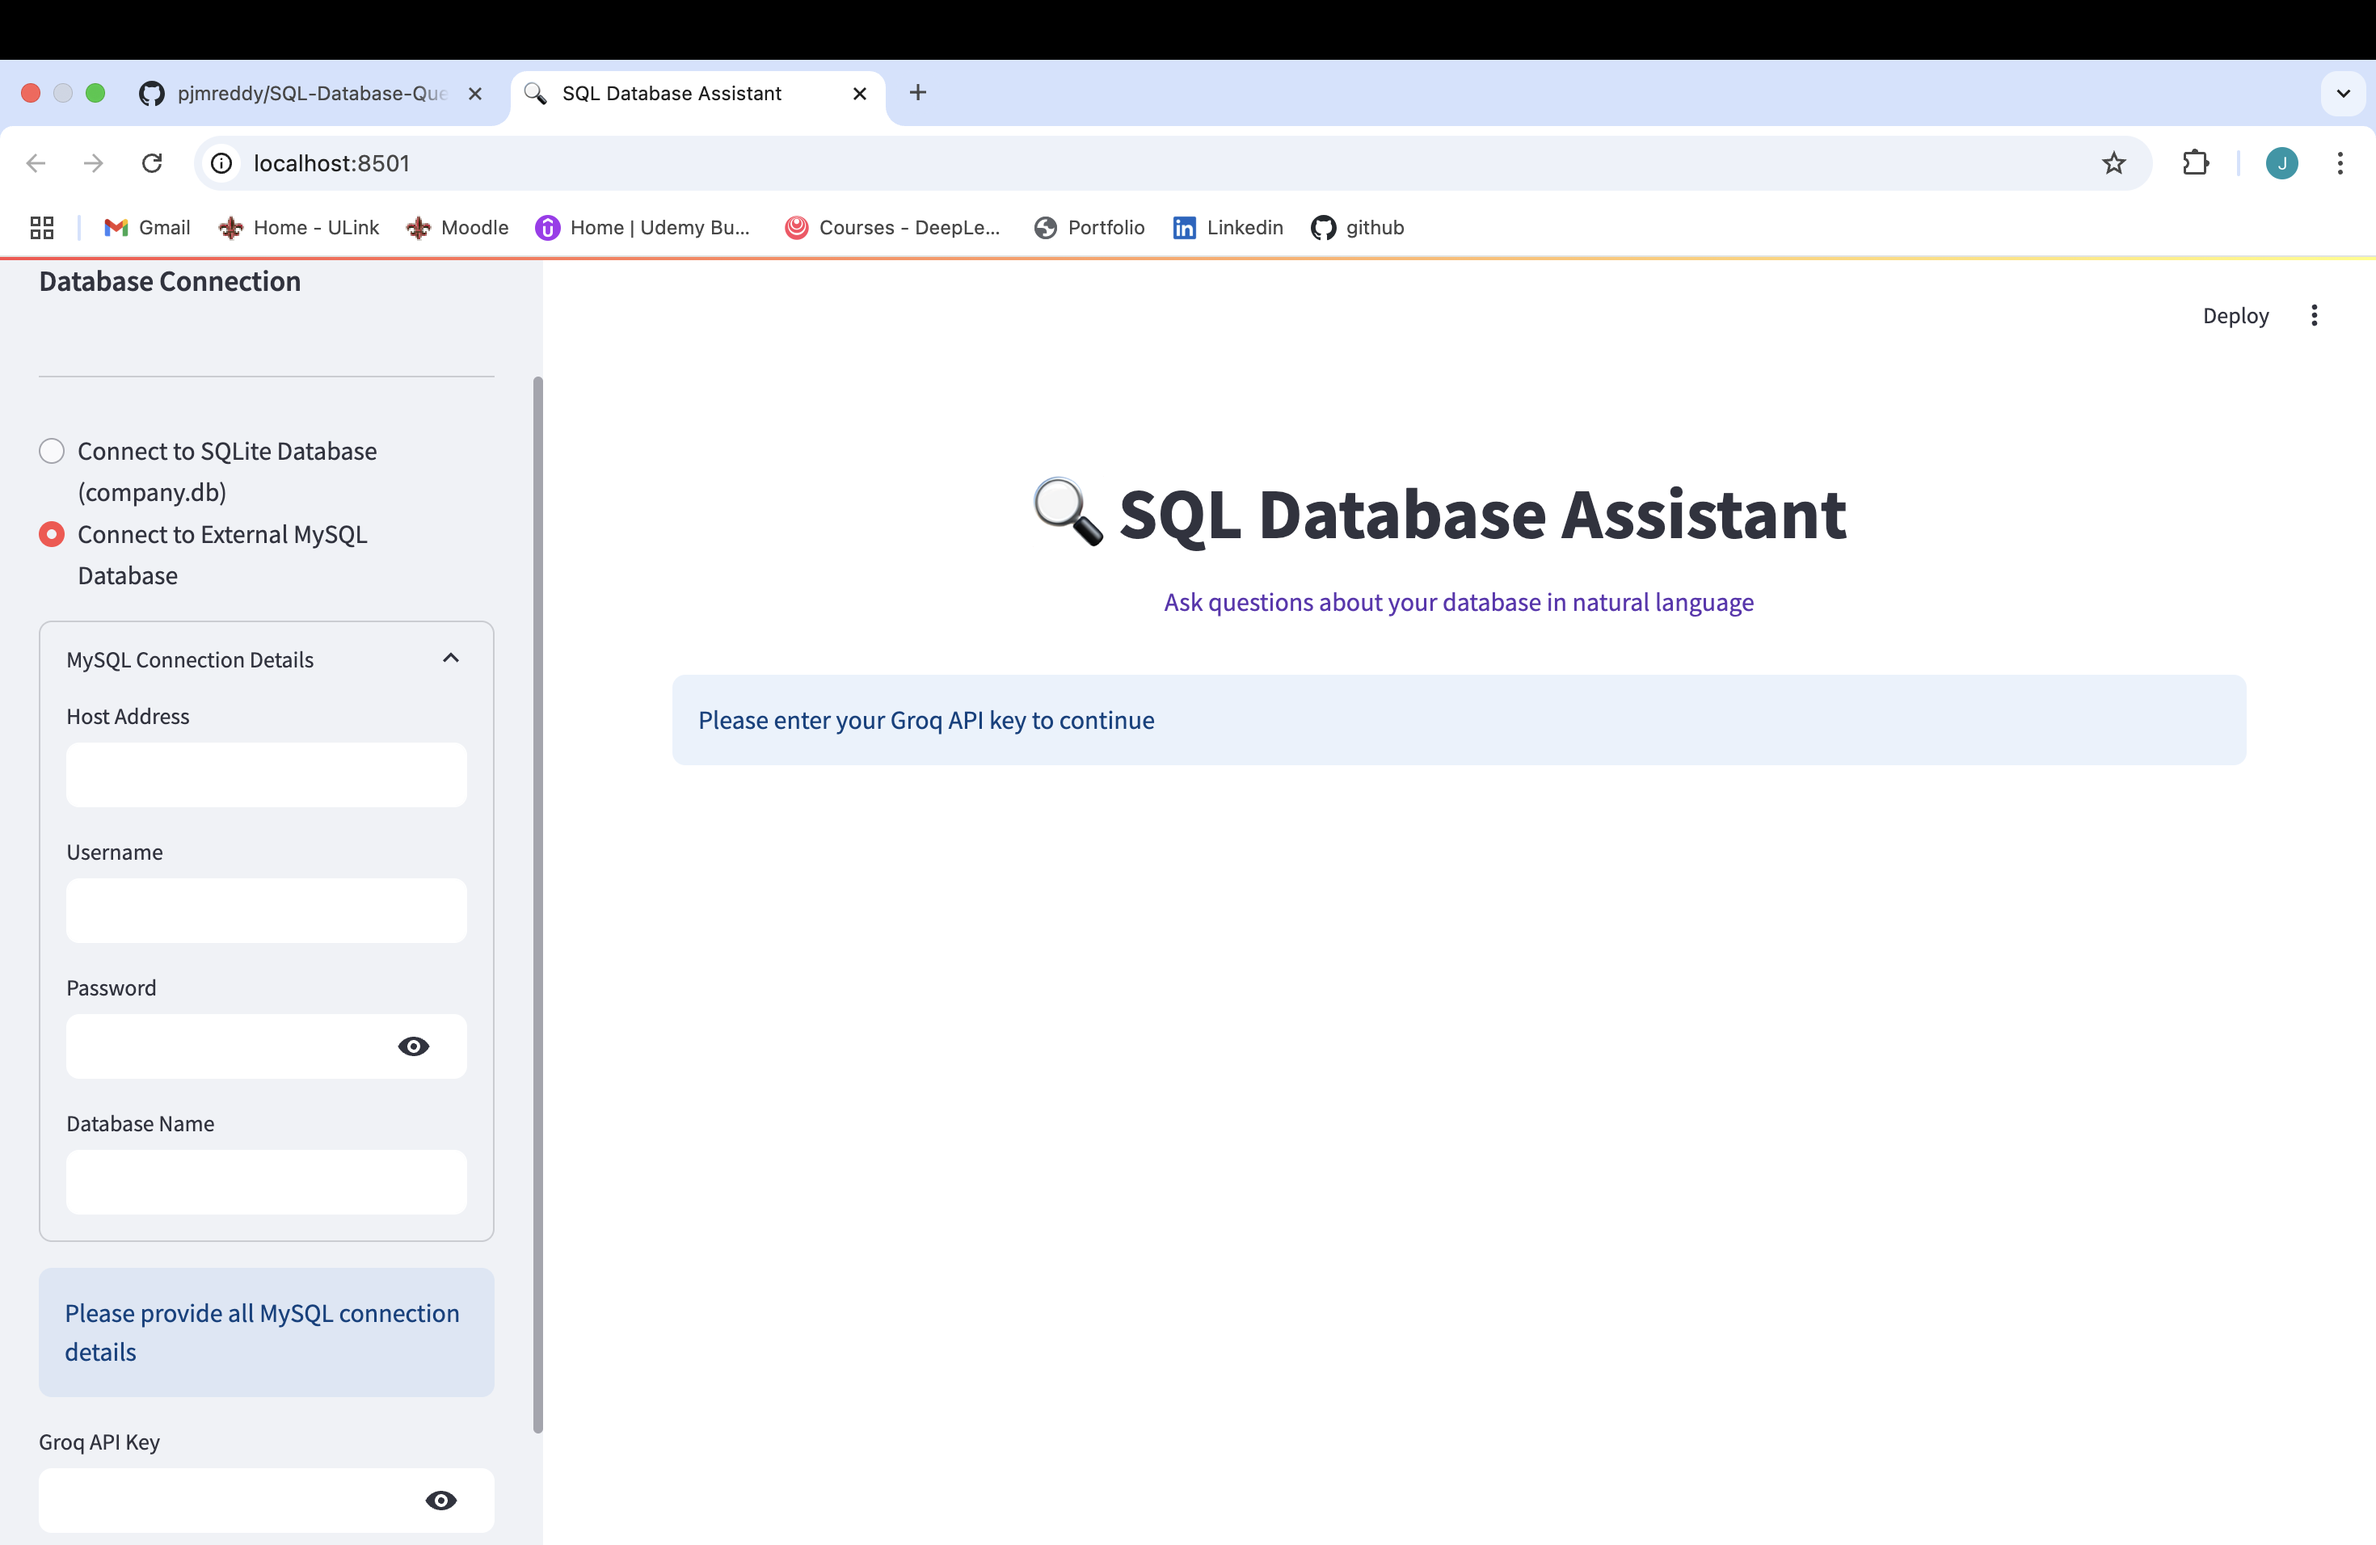
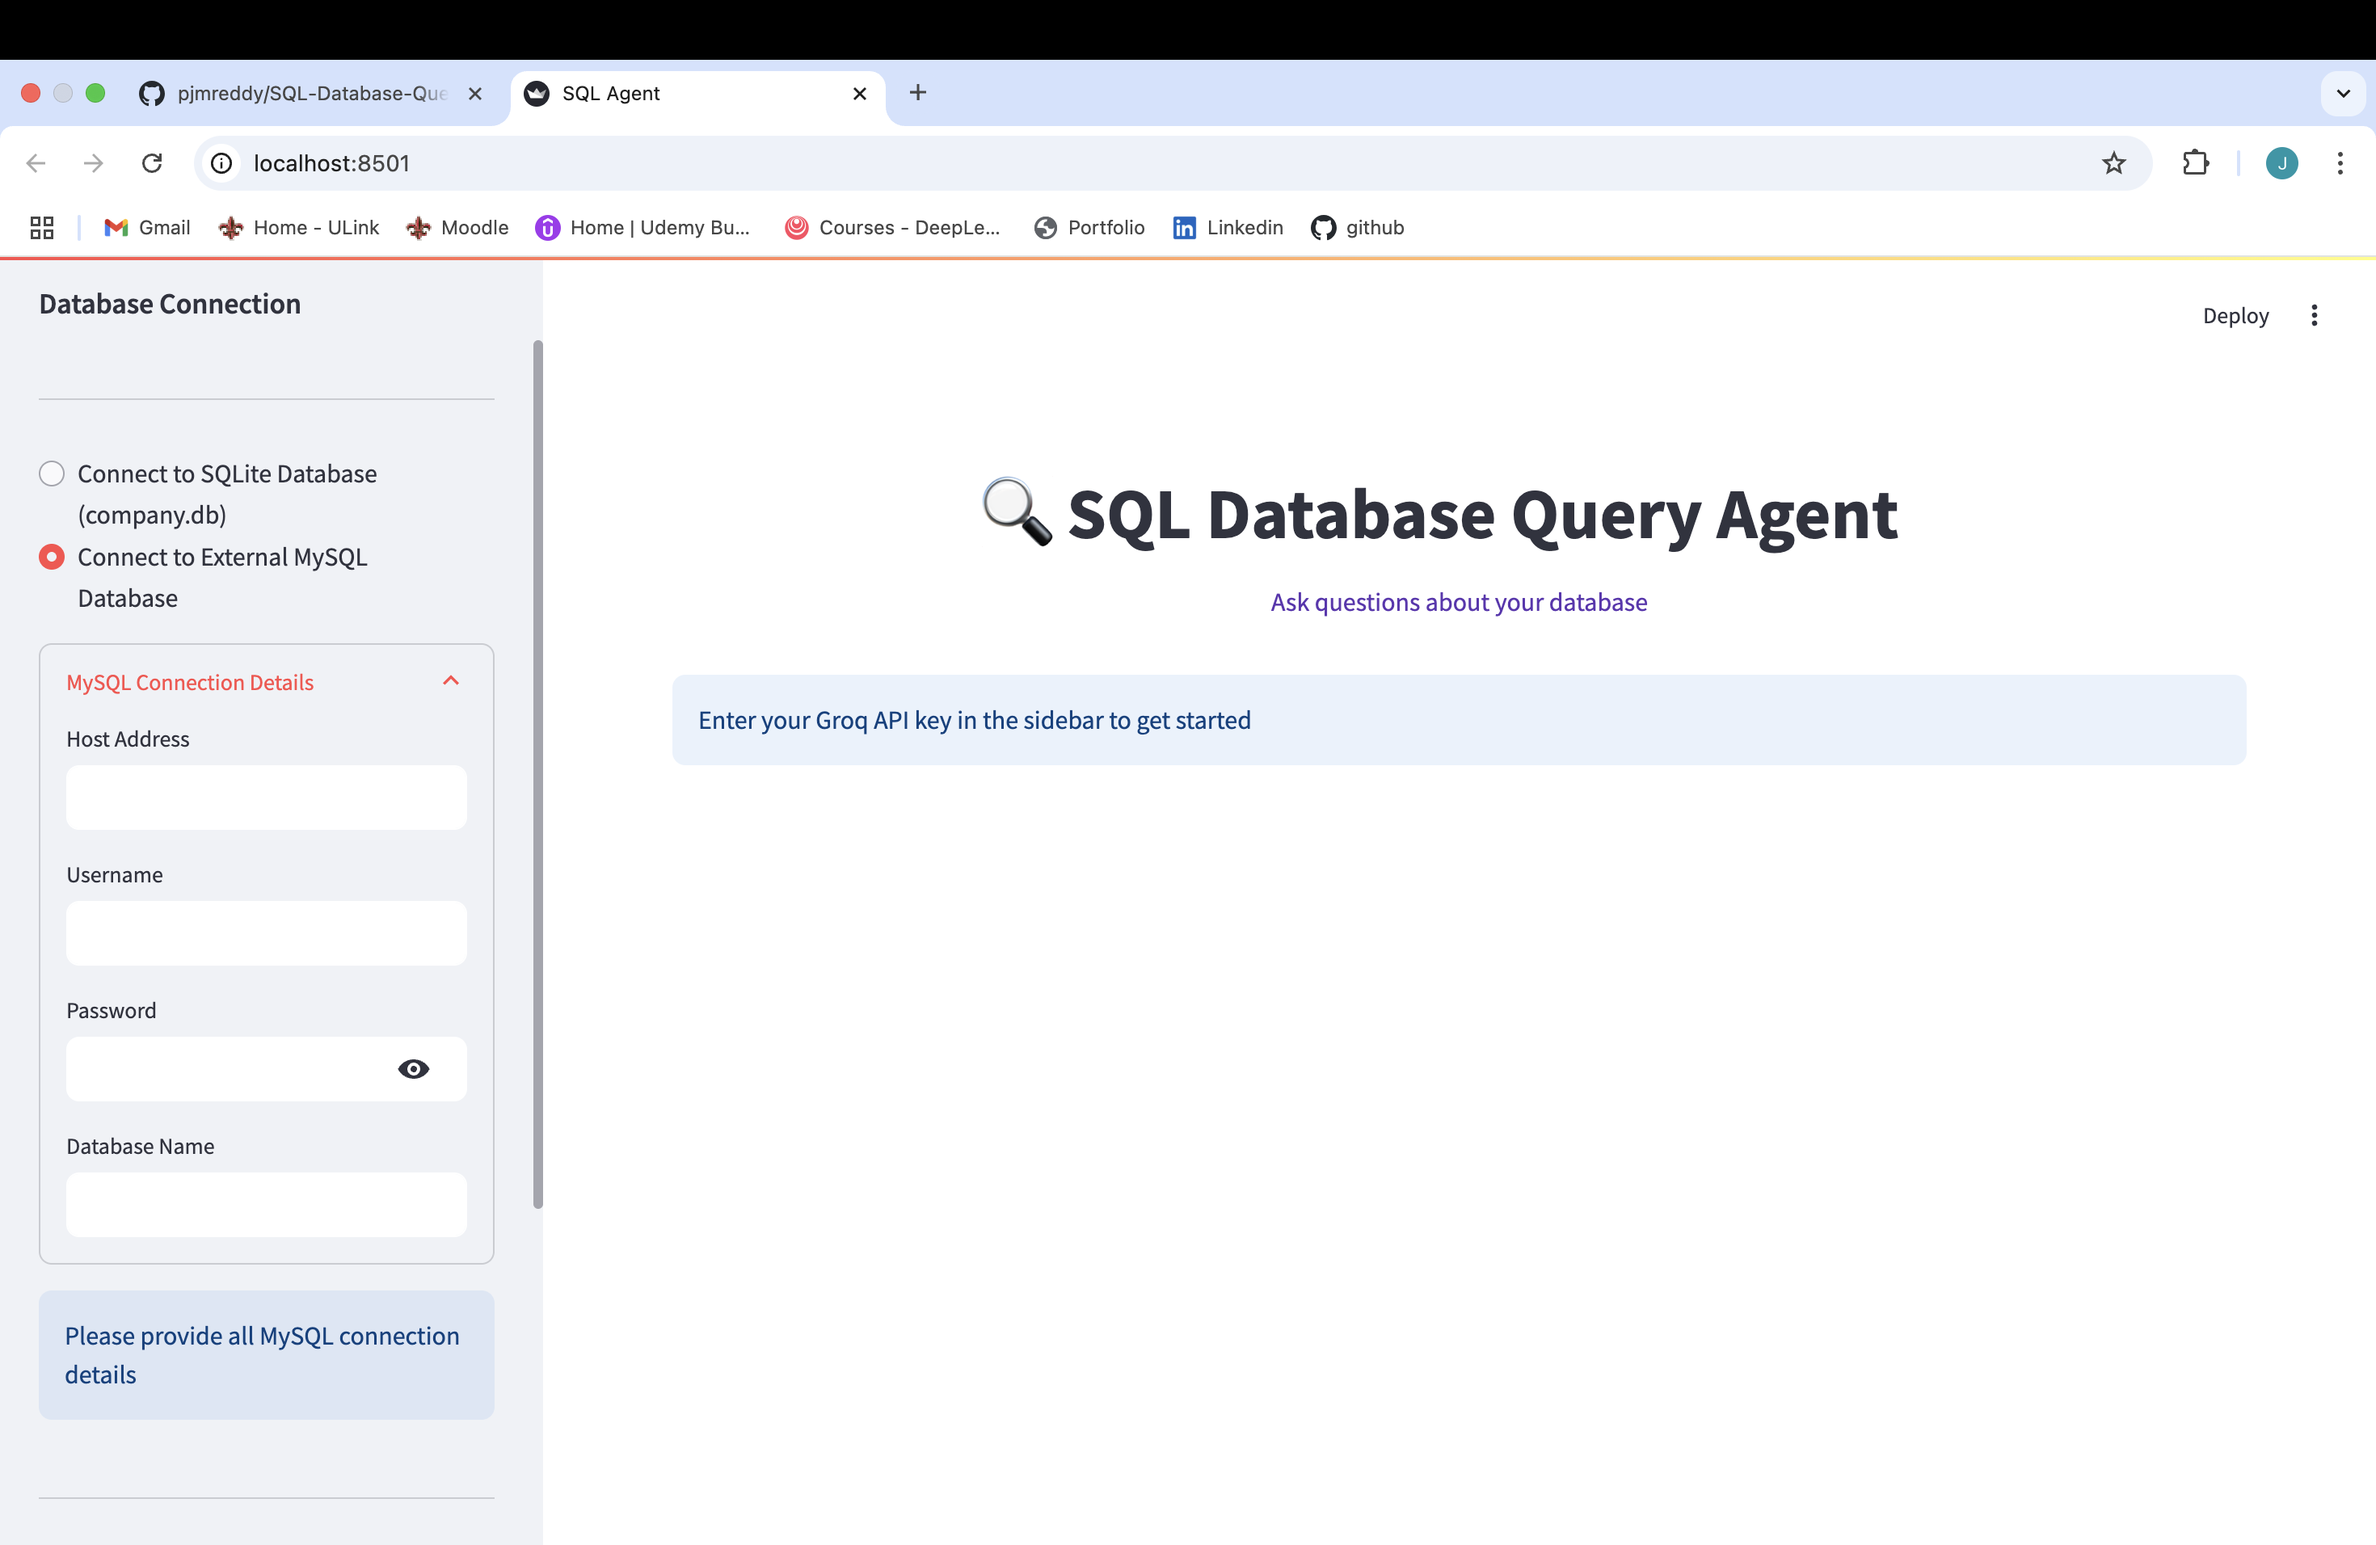
Final

diff --git a/app.py b/app.py
@@ -1,6 +1,6 @@
 import streamlit as st
 from pathlib import Path
-from langchain.agents import create_sql_agent
+from langchain_community.agent_toolkits.sql.base import create_sql_agent
 from langchain.agents.agent_types import AgentType
 from langchain_community.callbacks.streamlit import StreamlitCallbackHandler
 from langchain_community.agent_toolkits.sql.toolkit import SQLDatabaseToolkit

diff --git a/README.md b/README.md
@@ -1,4 +1,4 @@
-# 🔍 SQL Database Query Assistant
+# 🔍 SQL Database Query Agent
 
 ✨ A powerful SQL query Agent that transforms natural language into SQL queries using LangChain and Groq's LLM. Interact with your databases conversationally!
 
